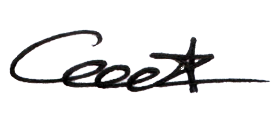
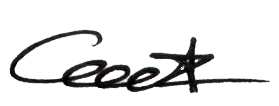
fix

Changed region(s): [[0.0287, 0.1981, 0.9749, 0.8774]]

diff --git a/resources/views/admin/student/certificate2.blade.php b/resources/views/admin/student/certificate2.blade.php
@@ -65,7 +65,7 @@
             .exam-date { top: 70.4%; left: 51%; }
             .student-gpa { top: 70.5%; left: 87%; }
             .student-result-published { top: 88%; left: 23%; }
-            .exam-sign { top: 81%; left: 43%; }
+            .exam-sign { top: 77%; left: 43%; }
             .ChairmanSignnature { top: 79%; left: 80%; }
             @media (min-width: 775px) {
                 .student-id { top: 44%; left: 32%; }
@@ -81,7 +81,7 @@
                 .exam-date { top: 69.4%; left: 51%; }
                 .student-gpa { top: 69.5%; left: 87%; }
                 .student-result-published { top: 87%; left: 23%; }
-                .exam-sign { top: 80%; left: 43%; }
+                .exam-sign { top: 78%; left: 43%; }
                 .ChairmanSignnature { top: 79%; left: 80%; }
 
             }
